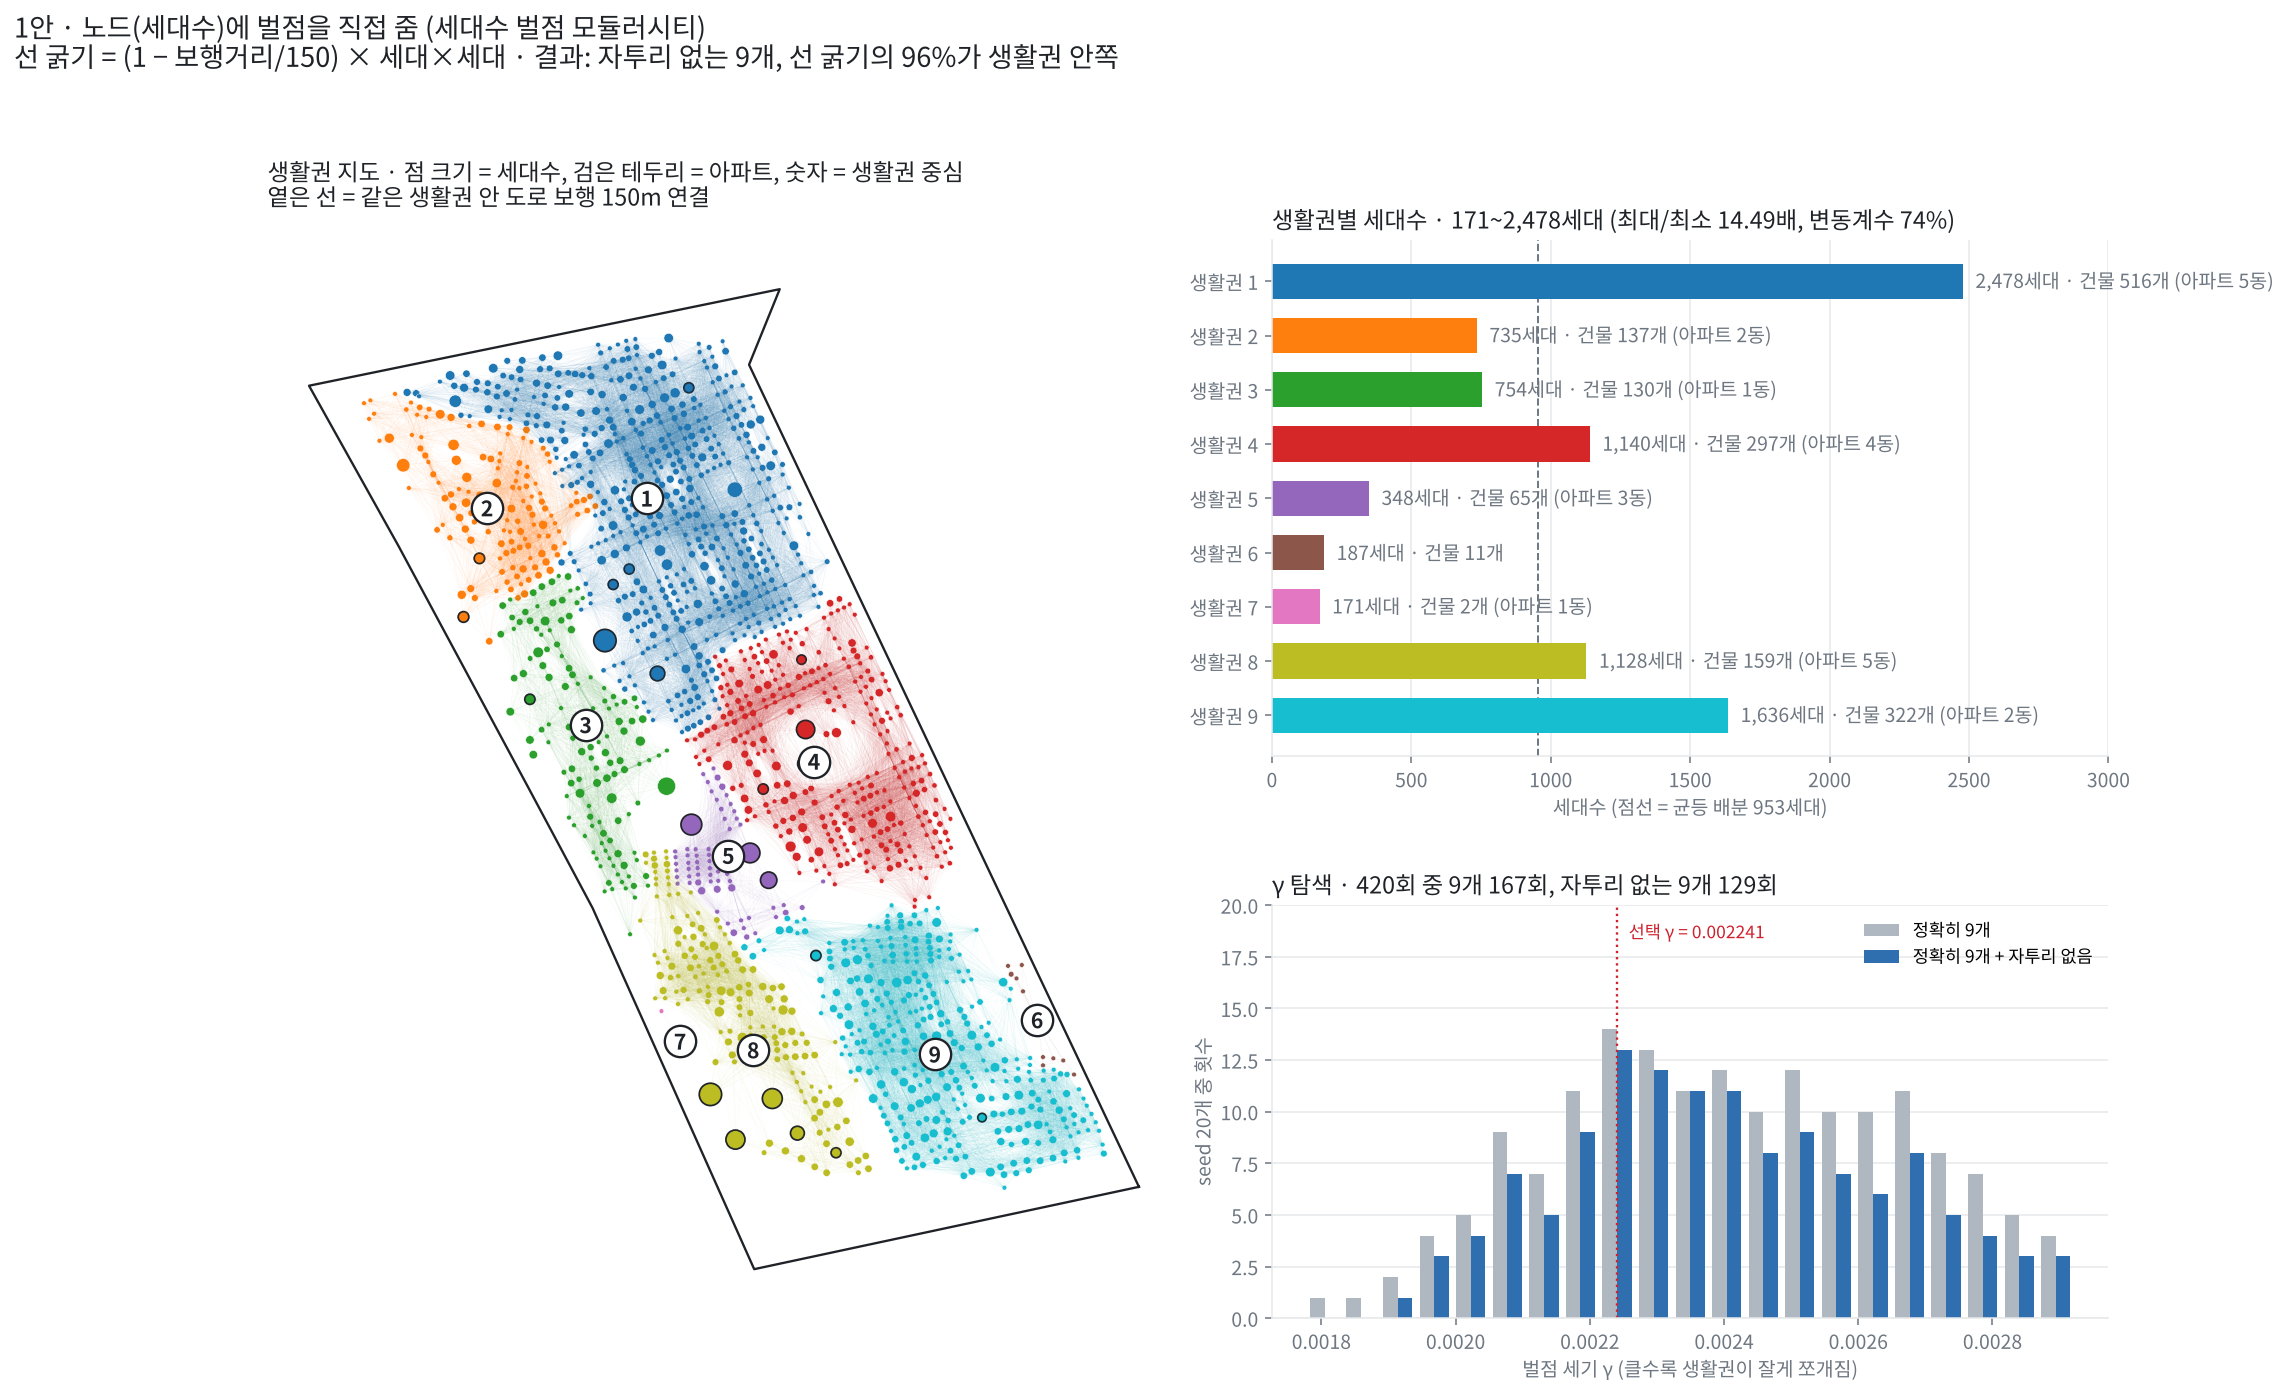
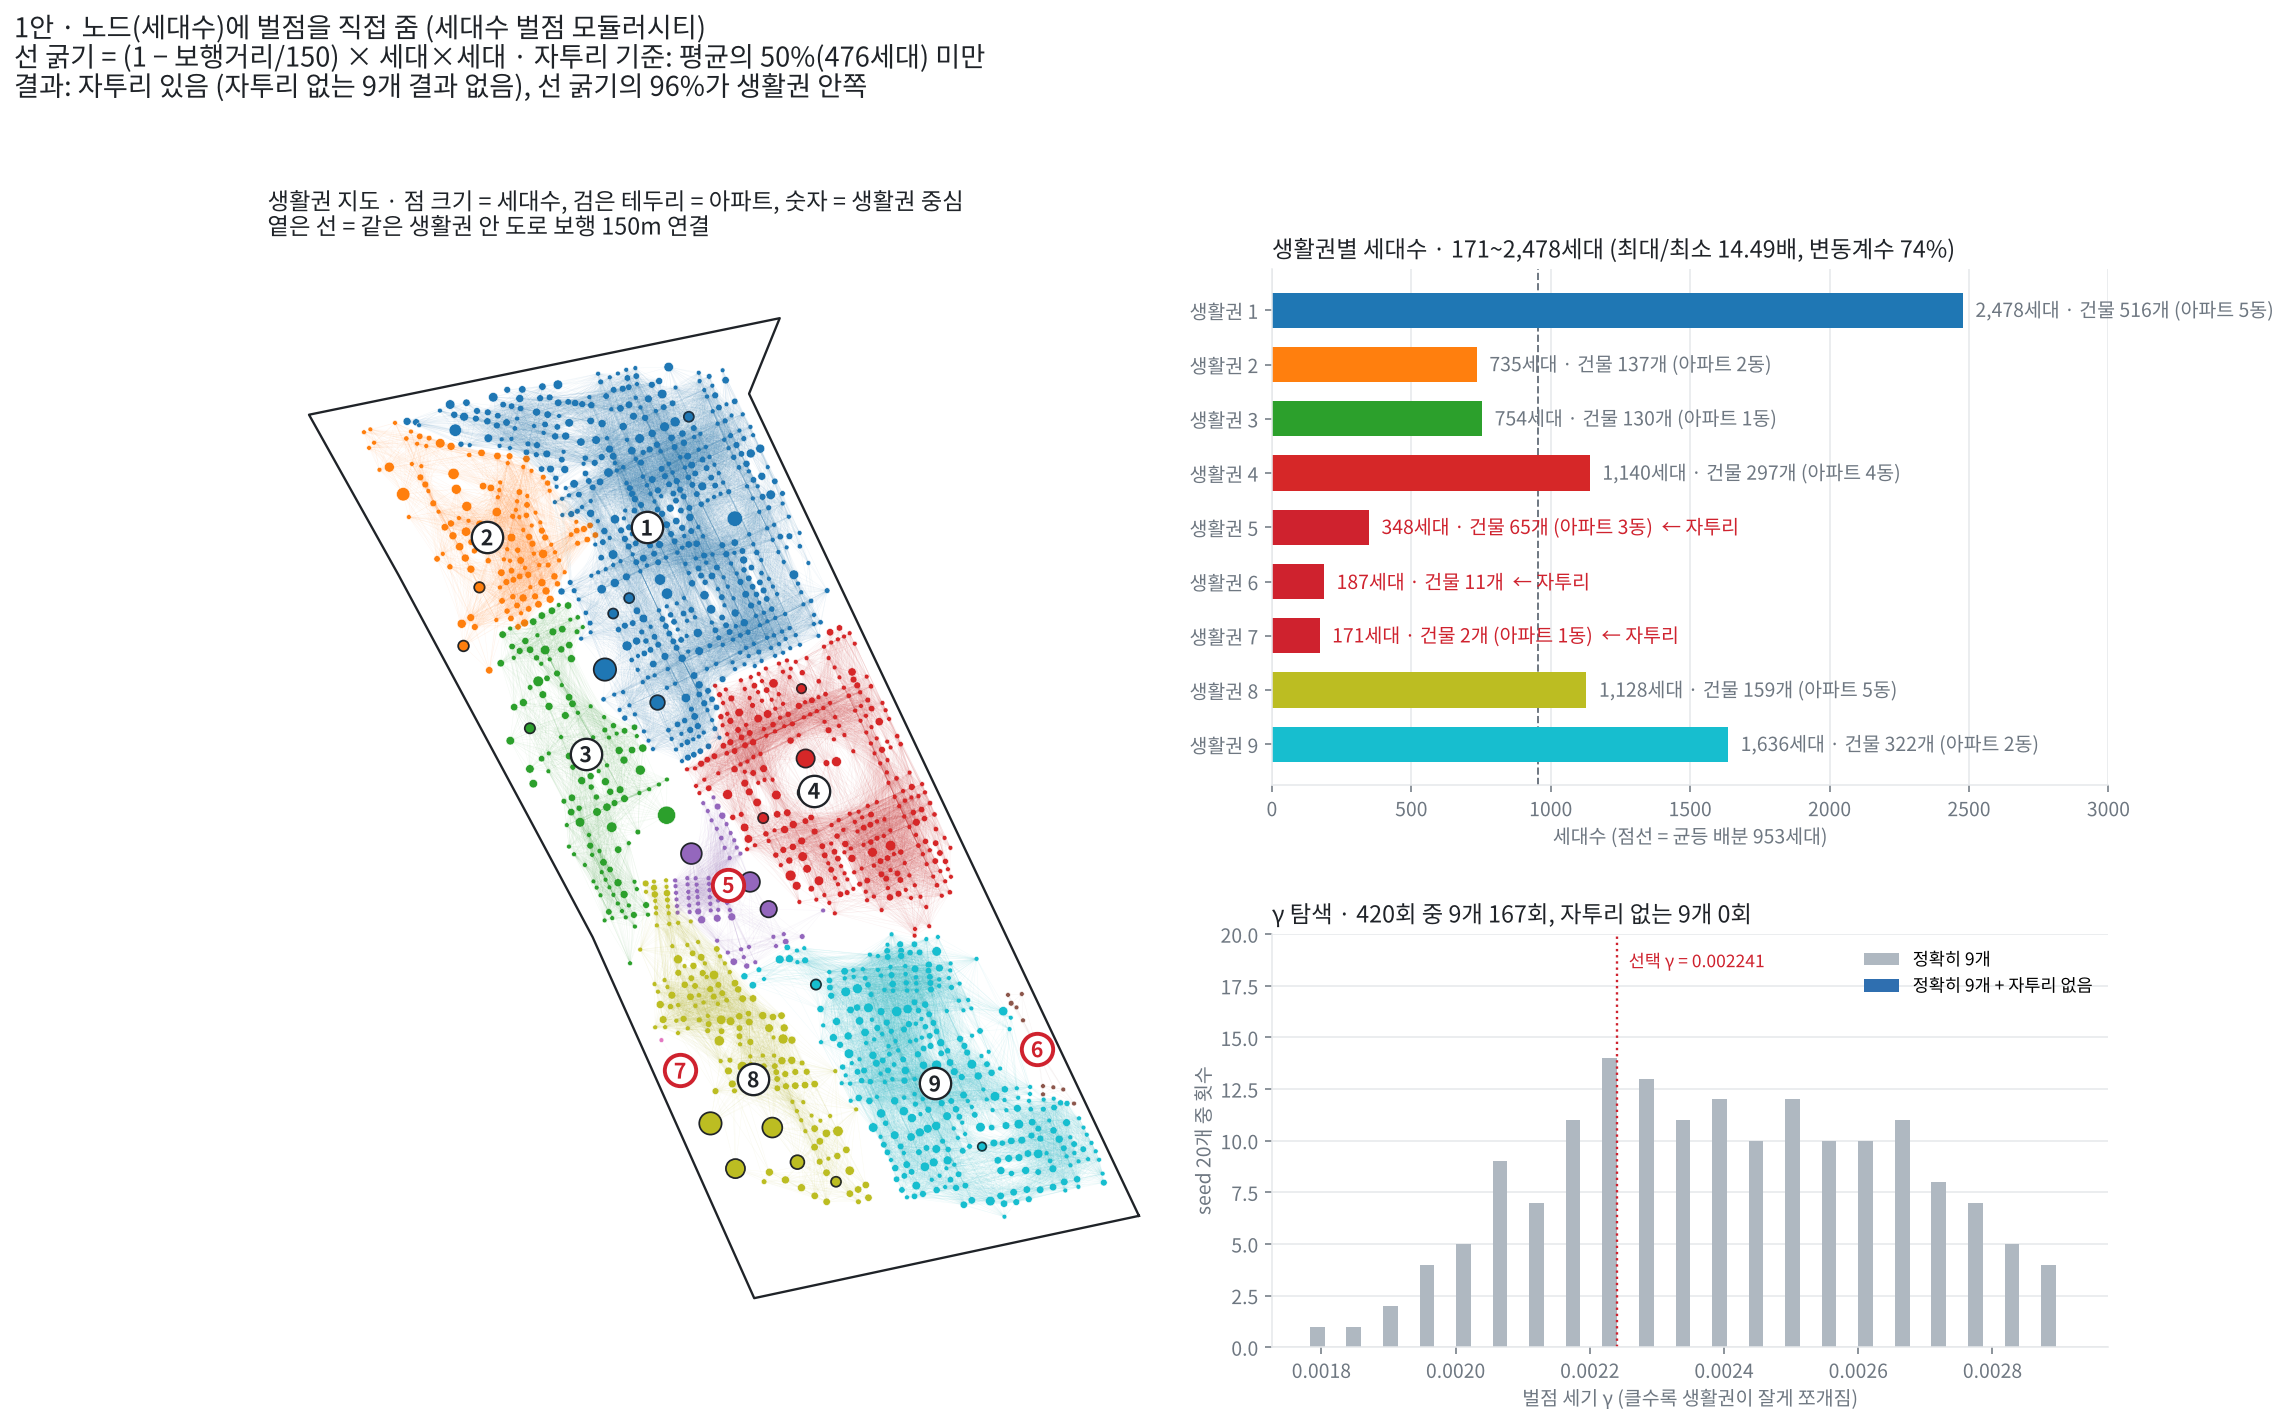
network_x: 자투리 생활권 기준 평균의 50%로 변경, 결과와 README 갱신

diff --git a/plan1_node_penalty.py b/plan1_node_penalty.py
@@ -43,7 +43,7 @@ COARSE_GAMMAS = np.geomspace(1e-5, 1e-1, 40)   # 1차 탐색 (넓게, seed 3개)
 COARSE_SEEDS = range(3)
 FINE_STEPS = 21                            # 2차 탐색 (9개 근처, seed 20개)
 FINE_SEEDS = range(20)
-FRAGMENT_RATIO = 0.10                      # 세대수가 평균의 10% 미만인 생활권 = 자투리
+FRAGMENT_RATIO = 0.50                      # 세대수가 평균의 50% 미만인 생활권 = 자투리
 
 
 def distance_weight(walk_m):
@@ -223,7 +223,7 @@ ax.set_title(f"γ 탐색 · {len(fine_gammas) * len(FINE_SEEDS)}회 중 9개 {in
              f"자투리 없는 9개 {int(log.k9_clean.sum())}회", loc="left", color=INK, fontsize=12)
 style(ax)
 
-fig.suptitle(f"{PLAN} · {PLAN_LABEL}\n{EDGE_LABEL} · 결과: {status}, "
+fig.suptitle(f"{PLAN} · {PLAN_LABEL}\n{EDGE_LABEL} · 자투리 기준: 평균의 50%({FRAGMENT_HH:,.0f}세대) 미만\n결과: {status}, "
              f"선 굵기의 {inside_share:.0%}가 생활권 안쪽", x=0.02, y=1.0, ha="left", va="bottom", fontsize=14, color=INK)
 fig.savefig(ROOT / OUTPUT_PNG, dpi=140, bbox_inches="tight")
 print("saved", OUTPUT_PNG)

diff --git a/plan2_edge_weight.py b/plan2_edge_weight.py
@@ -41,7 +41,7 @@ COARSE_GAMMAS = np.geomspace(0.1, 5, 40)   # 1차 탐색 (넓게, seed 3개)
 COARSE_SEEDS = range(3)
 FINE_STEPS = 21                            # 2차 탐색 (9개 근처, seed 20개)
 FINE_SEEDS = range(20)
-FRAGMENT_RATIO = 0.10                      # 세대수가 평균의 10% 미만인 생활권 = 자투리
+FRAGMENT_RATIO = 0.50                      # 세대수가 평균의 50% 미만인 생활권 = 자투리
 
 
 def distance_weight(walk_m):
@@ -219,7 +219,7 @@ ax.set_title(f"γ 탐색 · {len(fine_gammas) * len(FINE_SEEDS)}회 중 9개 {in
              f"자투리 없는 9개 {int(log.k9_clean.sum())}회", loc="left", color=INK, fontsize=12)
 style(ax)
 
-fig.suptitle(f"{PLAN} · {PLAN_LABEL}\n{EDGE_LABEL} · 결과: {status}, "
+fig.suptitle(f"{PLAN} · {PLAN_LABEL}\n{EDGE_LABEL} · 자투리 기준: 평균의 50%({FRAGMENT_HH:,.0f}세대) 미만\n결과: {status}, "
              f"선 굵기의 {inside_share:.0%}가 생활권 안쪽", x=0.02, y=1.0, ha="left", va="bottom", fontsize=14, color=INK)
 fig.savefig(ROOT / OUTPUT_PNG, dpi=140, bbox_inches="tight")
 print("saved", OUTPUT_PNG)

diff --git a/README.md b/README.md
@@ -5,7 +5,7 @@
 - **노드**: 건물 1,639개 (세대수 8,577, 아파트 포함)
 - **엣지**: 도로 보행거리 150m 이하인 건물 쌍 54,213개
 - **거리 가중치**: 선형 `1 − 보행거리/150`
-- **결과 고르기**: 정확히 9개이면서 자투리 생활권이 없는 결과 중 점수가 가장 높은 것
+- **자투리 기준**: 세대수가 평균(953세대)의 **50%(476세대) 미만**인 생활권, 자투리 생활권이 나오지 않아야 함 중요!
 
 ---
 
@@ -23,8 +23,9 @@
 
 **결과**
 
-- 아파트가 주변 주택가와 섞이면 벌점을 너무 많이 받기 때문에, 차라리 아파트끼리만 떨어져 나와 **2개 동짜리 초미니 생활권**을 만든다.
+- 아파트가 주변 주택가와 섞이면 벌점을 너무 많이 받기 때문에, 차라리 아파트끼리만 떨어져 나와 **2개 동짜리 초미니 생활권**을 만들 수 있게 된다.
 - 생활권 안에 세대수가 균형 있게 반영되지 않는다. 171세대짜리(아파트 1~2동) 생활권이 생기고, 반대로 2,478세대짜리 큰 생활권이 생긴다.
+- 탐색한 420번 중 정확히 9개가 나온 결과는 있었지만, **자투리 없는 9개 결과는 한 번도 없었다.**
 
 ![1안 결과: 노드에 벌점을 직접 주는 방식](plan1_node_penalty.png)
 
@@ -45,7 +46,8 @@
 **결과**
 
 - 아파트가 혼자 떨어져 나가지 않고, 주변 주택가와 자연스럽게 한 덩어리를 이룬다.
-- 안정적인 9개 생활권으로 묶인다.
+- **자투리 없는 9개 생활권**으로 묶인다 (688 ~ 1,472세대).
+- 탐색한 420번 중 자투리가 없는 결과는 39번이었다.
 
 ![2안 결과: 표준 모듈러시티 방식](plan2_edge_weight.png)
 
@@ -55,15 +57,23 @@
 
 | | 1안 (노드에 벌점 직접) | 2안 (표준 모듈러시티) |
 |---|---|---|
-| 생활권별 세대수 | 171 ~ 2,478세대 | 262 ~ 1,579세대 |
-| 최대 / 최소 | 14.5배 | 6.0배 |
-| 가장 작은 생활권 | 건물 2개 (아파트), 171세대 | 건물 101개, 262세대 |
+| 생활권별 세대수 | 171 ~ 2,478세대 | 688 ~ 1,472세대 |
+| 최대 / 최소 | 14.5배 | **2.1배** |
+| 세대수 변동계수 | 74.3% | **27.1%** |
+| 자투리 생활권 (476세대 미만) | 3개 | **0개** |
+| 가장 작은 생활권 | 건물 2개 (아파트), 171세대 | 건물 124개, 688세대 |
 | 정확히 9개가 나온 횟수 (420회 중) | 167회 | 246회 |
+| 그중 자투리 없는 횟수 | 0회 | 39회 |
+| 거점까지 세대 평균 보행거리 | 170m | **156m** |
+| 거점까지 300m 안 세대 | 92.6% | **98.5%** |
 | 한 덩어리로 이어진 생활권 | 9 / 9 | 9 / 9 |
 | 계산 도구 | NetworkX + leidenalg | NetworkX 내장 Louvain |
+
+거점은 생활권마다 세대 보행거리 합이 가장 작은 건물로 두고, 각 세대가 자기 생활권 거점까지 도로를 따라 걷는 거리를 쟀다.
 
 ---
 
 ## 선택
-
+> 자투리 기준을 평균의 50%로 설정해도, 1안은 자투리 없는 결과를 한 번도 만들지 못했고, 2안은 자투리 없는 9개 생활권을 만들 수 있었다.
 > 아파트만 따로 떨어져 나가는 초미니 생활권이 생기는 것을 막기 위해 **2안, 표준 모듈러시티 방식**을 선택한다.
+
